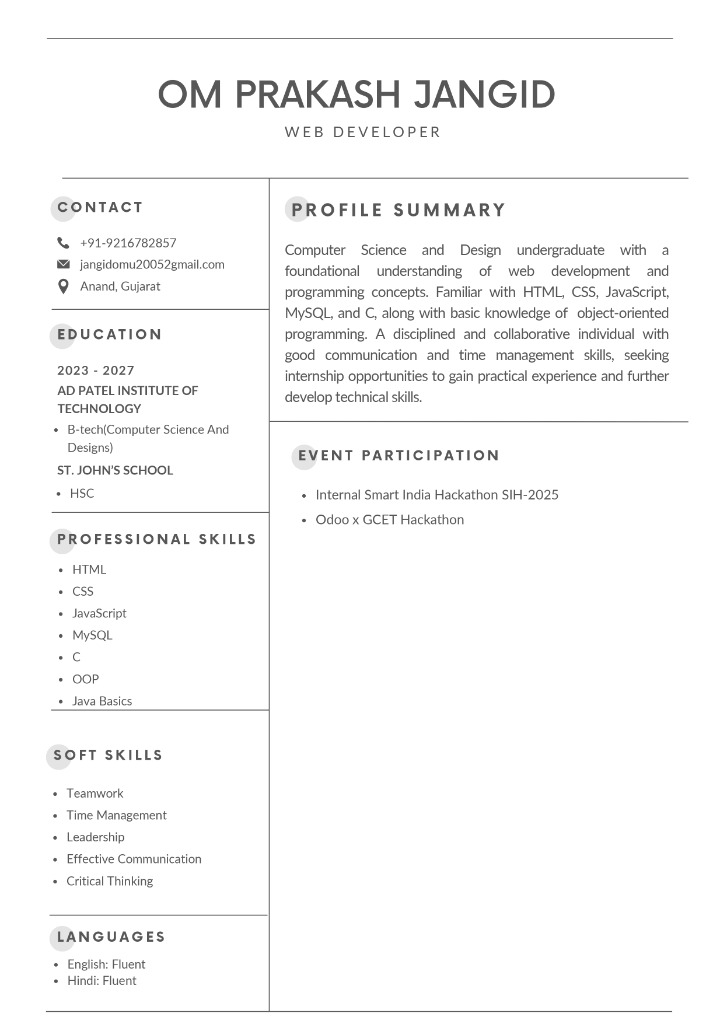
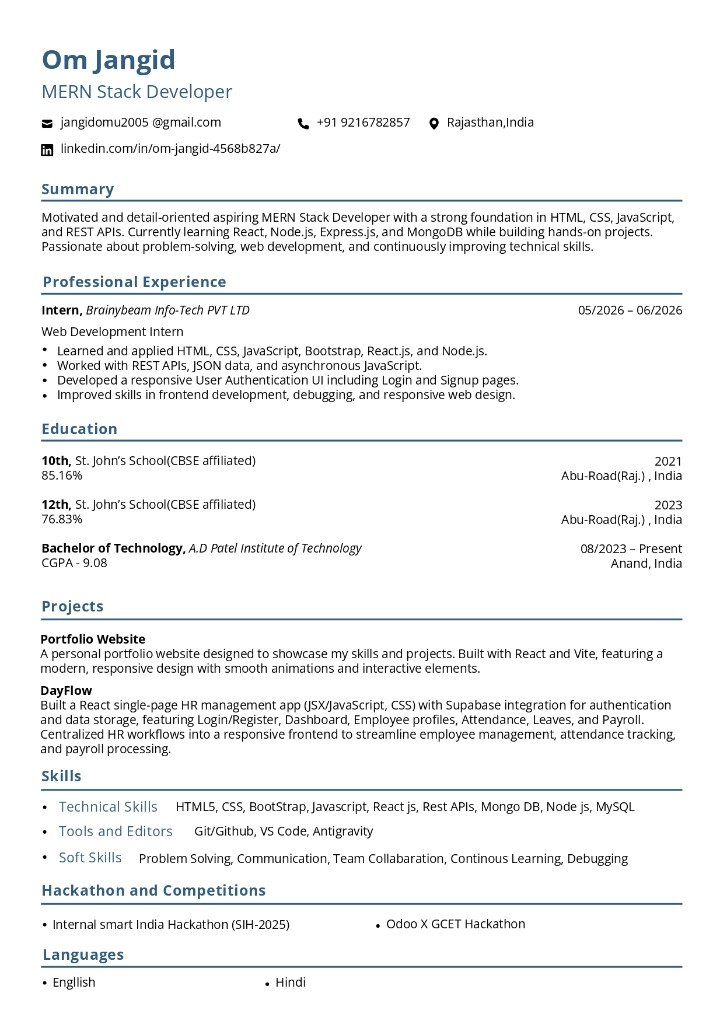
project Added and resume updated

diff --git a/src/sections/Skills.jsx b/src/sections/Skills.jsx
@@ -9,22 +9,35 @@ const Skills = () => {
                 <div className="skills-content">
                     <div className="skill-category">
                         <h3>Technical Skills</h3>
-                        <ul className="skill-list">
-                            <li><strong>Programming Languages:</strong> C, Java, OOP</li>
-                            <li><strong>Web Technologies:</strong> HTML, CSS, JavaScript</li>
-                            <li><strong>Version Control:</strong> Git, GitHub</li>
-                            <li><strong>Tools & Editors:</strong> VS Code, Antigravity</li>
-                        </ul>
+                        <div className="skills-tags">
+                            <span className="skill-badge">HTML5</span>
+                            <span className="skill-badge">CSS</span>
+                            <span className="skill-badge">BootStrap</span>
+                            <span className="skill-badge">Javascript</span>
+                            <span className="skill-badge">React js</span>
+                            <span className="skill-badge">Rest APIs</span>
+                            <span className="skill-badge">Mongo DB</span>
+                            <span className="skill-badge">Node js</span>
+                            <span className="skill-badge">MySQL</span>
+                        </div>
+                    </div>
+                    <div className="skill-category">
+                        <h3>Tools & Editors</h3>
+                        <div className="skills-tags">
+                            <span className="skill-badge">Git/Github</span>
+                            <span className="skill-badge">VS Code</span>
+                            <span className="skill-badge">Antigravity</span>
+                        </div>
                     </div>
                     <div className="skill-category">
                         <h3>Soft Skills</h3>
-                        <ul className="skill-list">
-                            <li>Effective Communication</li>
-                            <li>Teamwork</li>
-                            <li>Time Management</li>
-                            <li>Problem Solving</li>
-                            <li>Willingness to Learn</li>
-                        </ul>
+                        <div className="skills-tags">
+                            <span className="skill-badge">Problem Solving</span>
+                            <span className="skill-badge">Communication</span>
+                            <span className="skill-badge">Team Collaboration</span>
+                            <span className="skill-badge">Continuous Learning</span>
+                            <span className="skill-badge">Debugging</span>
+                        </div>
                     </div>
                 </div>
             </RevealOnScroll>

diff --git a/src/sections/Experience.jsx b/src/sections/Experience.jsx
@@ -8,23 +8,26 @@ const Experience = () => {
                 <h2>Experience & Achievements</h2>
                 <div className="experience-timeline">
                     <div className="experience-item">
-                        <h3>Fresher | Open to Internships</h3>
-                        <p className="exp-date">Present</p>
-                        <p>
-                            Currently seeking internship opportunities to gain industry exposure, apply academic knowledge,
-                            and learn from experienced professionals in a real-world environment.
+                        <h3>Web Development Intern</h3>
+                        <p className="exp-date">05/2026 - 06/2026</p>
+                        <p style={{ fontWeight: '600', color: '#fff', marginBottom: '0.5rem' }}>
+                            Brainybeam Info-Tech PVT LTD
                         </p>
+                        <ul style={{ listStyleType: 'disc', paddingLeft: '1.2rem', color: 'var(--secondary-color)', fontSize: '0.95rem' }}>
+                            <li>Learned and applied HTML, CSS, JavaScript, Bootstrap, React.js, and Node.js.</li>
+                            <li>Worked with REST APIs, JSON data, and asynchronous JavaScript.</li>
+                            <li>Developed a responsive User Authentication UI including Login and Signup pages.</li>
+                            <li>Improved skills in frontend development, debugging, and responsive web design.</li>
+                        </ul>
                     </div>
 
-                    <h3 className="sub-heading">Achievements</h3>
+                    <h3 className="sub-heading">Hackathon and Competitions</h3>
                     <div className="achievements-list">
                         <div className="achievement-item">
-                            <h4>Smart India Hackathon</h4>
-                            <p>Participant</p>
+                            <h4>Internal smart India Hackathon (SIH-2025)</h4>
                         </div>
                         <div className="achievement-item">
                             <h4>Odoo X GCET Hackathon</h4>
-                            <p>Participant</p>
                         </div>
                     </div>
                 </div>

diff --git a/src/index.css b/src/index.css
@@ -242,11 +242,11 @@ section {
 
 /* Projects Section */
 .projects-grid {
-  display: grid;
-  grid-template-columns: repeat(auto-fit, minmax(300px, 1fr));
+  display: flex;
+  flex-direction: column;
   gap: 2rem;
   width: 100%;
-  max-width: 1200px;
+  max-width: 800px;
 }
 
 .card {
@@ -420,10 +420,17 @@ section {
 }
 
 /* Skills Formatting */
+.skills-content {
+  display: grid;
+  grid-template-columns: repeat(auto-fit, minmax(280px, 1fr));
+  gap: 2rem;
+  width: 100%;
+  max-width: 1200px;
+  margin-top: 1.5rem;
+}
+
 .skill-category {
-  margin-bottom: 2rem;
   text-align: left;
-  max-width: 800px;
   width: 100%;
   background: rgba(255, 255, 255, 0.03);
   padding: 2rem;
@@ -438,20 +445,34 @@ section {
   font-size: 1.5rem;
 }
 
-.skill-list {
-  list-style: none;
-  padding: 0;
+.skills-tags {
+  display: flex;
+  flex-wrap: wrap;
+  gap: 0.8rem;
+  margin-top: 1.2rem;
 }
 
-.skill-list li {
-  margin-bottom: 0.8rem;
-  font-size: 1.1rem;
+.skill-badge {
+  background: rgba(255, 255, 255, 0.03);
+  border: 1px solid rgba(255, 255, 255, 0.08);
+  padding: 0.5rem 1.2rem;
+  border-radius: 50px;
   color: var(--secondary-color);
+  font-size: 0.95rem;
+  font-weight: 500;
+  transition: all 0.3s cubic-bezier(0.25, 0.8, 0.25, 1);
+  cursor: default;
+  display: inline-block;
+  flex-grow: 1;
+  text-align: center;
 }
 
-.skill-list strong {
+.skill-badge:hover {
+  background: rgba(255, 255, 255, 0.1);
+  border-color: #a5b4fc;
   color: #fff;
-  margin-right: 0.5rem;
+  transform: translateY(-3px) scale(1.05);
+  box-shadow: 0 4px 15px rgba(165, 180, 252, 0.2);
 }
 
 /* Experience Timeline */
@@ -718,20 +739,6 @@ h3 {
   box-shadow: 0 10px 30px -10px rgba(0, 0, 0, 0.5);
 }
 
-.skill-list li {
-  transition: transform 0.3s ease, color 0.3s ease;
-  padding-left: 0;
-}
-
-.skill-list li:hover {
-  transform: translateX(10px);
-  color: #fff;
-}
-
-.skill-list strong {
-  color: #a5b4fc;
-  /* Consistent accent color */
-}
 
 /* Page Load Animations */
 @keyframes fadeInUp {

diff --git a/src/sections/Projects.jsx b/src/sections/Projects.jsx
@@ -9,6 +9,12 @@ const Projects = () => {
             description: 'A personal portfolio website designed to showcase my skills and projects. Built with React and Vite, featuring a modern, responsive design with smooth animations and interactive elements.',
             link: '#',
             githubLink: 'https://github.com/omjangid16/portfolio-website'
+        },
+        {
+            title: 'DayFlow',
+            description: 'Built a React single-page HR management app (JSX/JavaScript, CSS) with Supabase integration for authentication and data storage, featuring Login/Register, Dashboard, Employee profiles, Attendance, Leaves, and Payroll. Centralized HR workflows into a responsive frontend to streamline employee management, attendance tracking, and payroll processing.',
+            link: 'http://localhost:5174/',
+            githubLink: 'https://github.com/omjangid16/odooXgcet'
         }
     ];
 

diff --git a/src/sections/Contact.jsx b/src/sections/Contact.jsx
@@ -8,7 +8,7 @@ const Contact = () => {
                 <h2>Get In Touch</h2>
                 <div className="contact-info">
                     <div className="contact-details">
-                        <p><strong>Email:</strong> <a href="mailto:jangidomu20052@gmail.com">jangidomu2005@gmail.com</a></p>
+                        <p><strong>Email:</strong> <a href="mailto:jangidomu2005@gmail.com">jangidomu2005@gmail.com</a></p>
                         <p><strong>Phone:</strong> +91-92167-82857</p>
                         <p><strong>Location:</strong> Anand, Gujarat</p>
                     </div>
